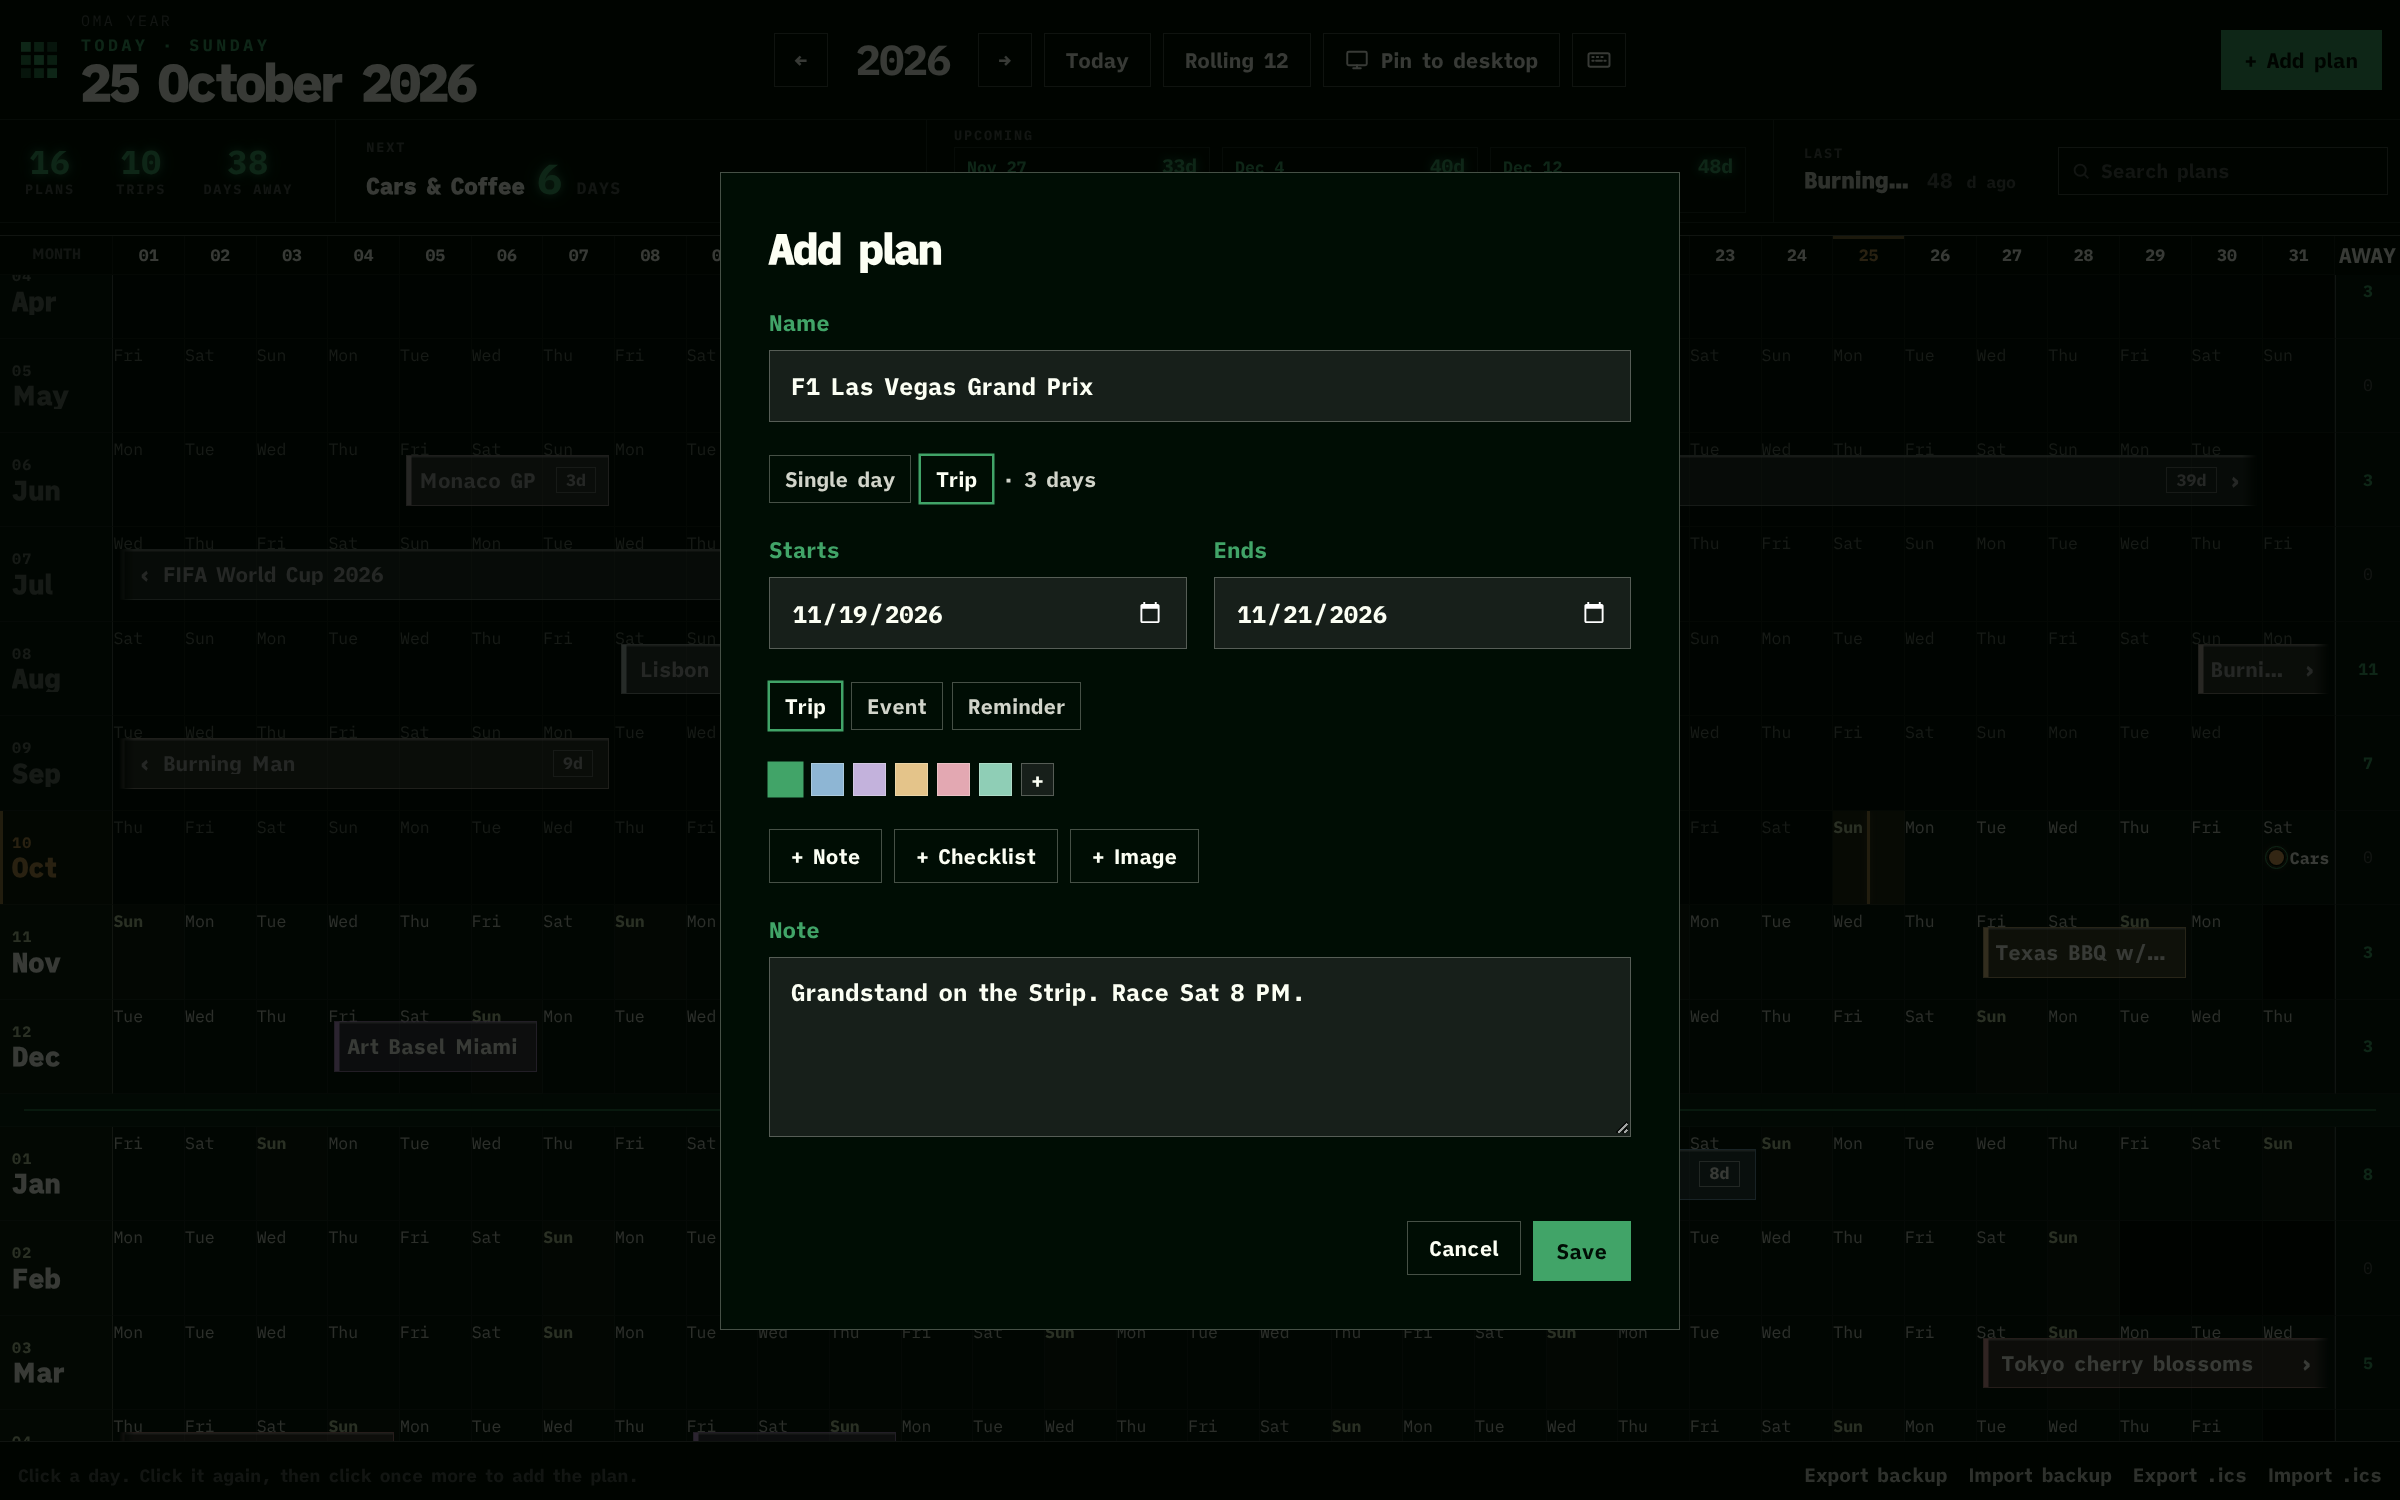
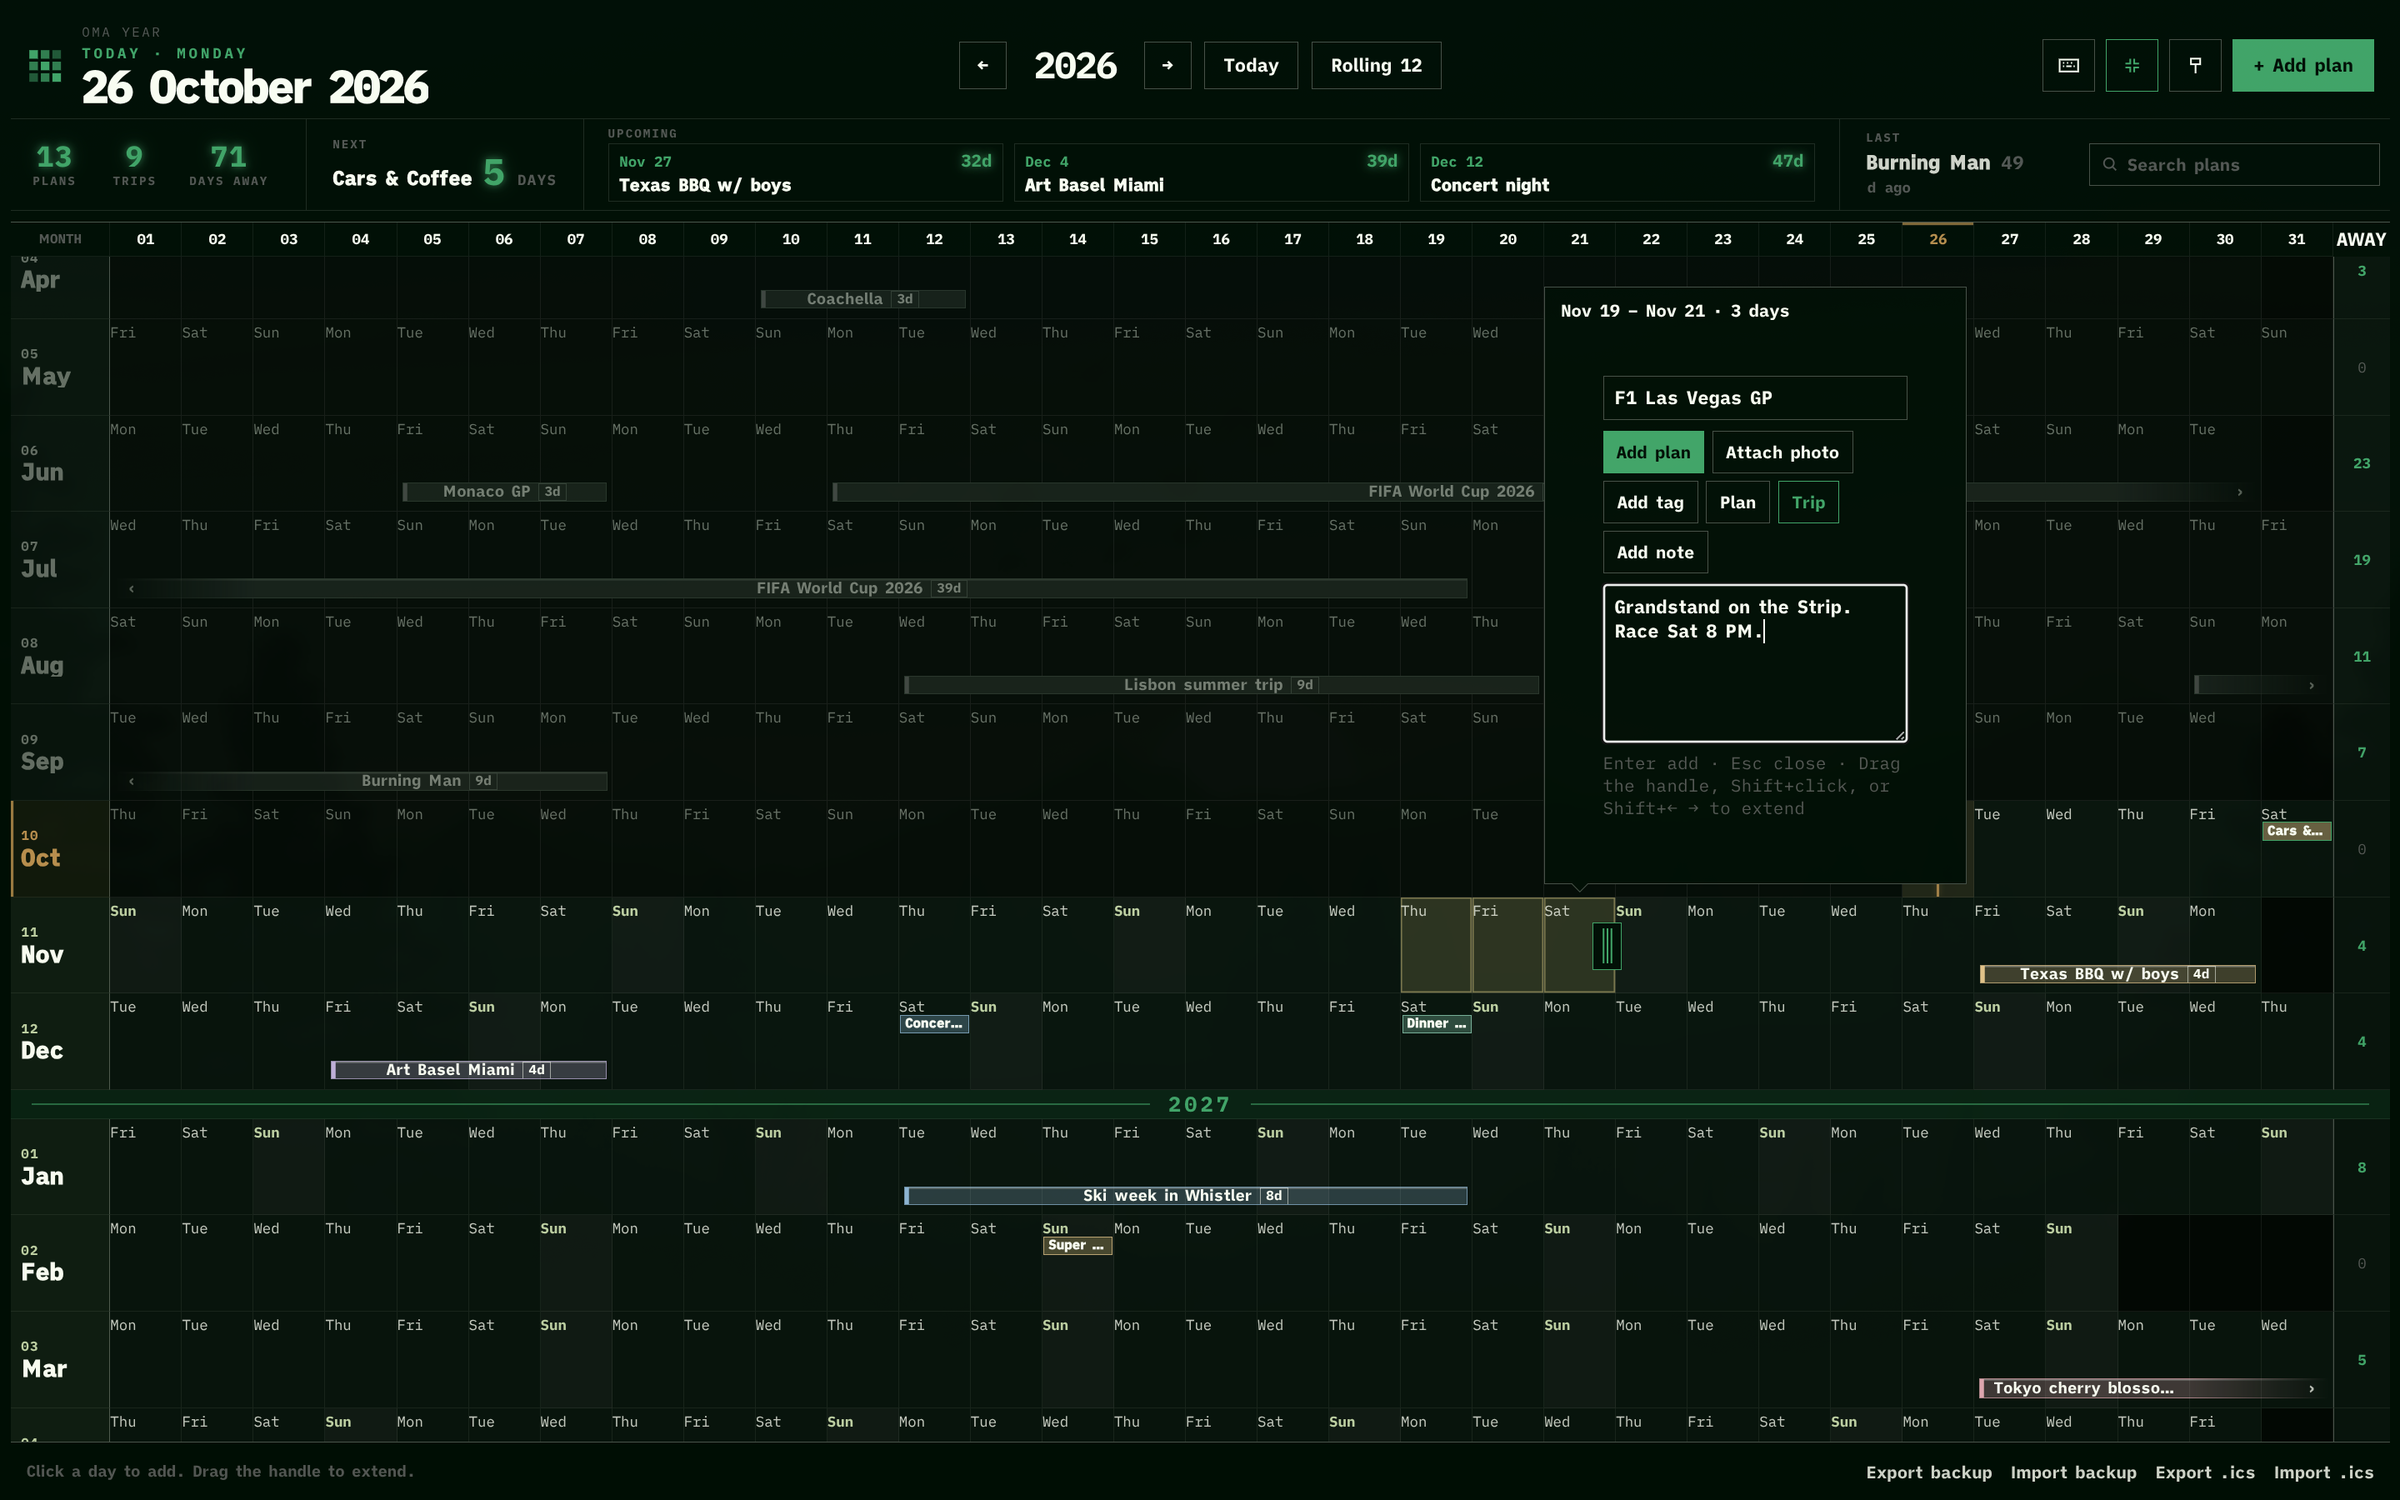
Replace the demo screenshots with the current board. (#3)
The gallery and marketplace preview now show the full board, the floating window, quick add, and a plan with a photo.

diff --git a/README.md b/README.md
@@ -5,14 +5,15 @@
 <p align="center"><b>Your whole year on one screen. A local-first year calendar for Omarchy, with no backend, no account and no build step.</b></p>
 
 <p align="center">
-  <img src="preview.png" alt="Oma Year Planner showing a full year of trips and events" width="960">
+  <img src="preview.png" alt="Full year board of demo trips and events, with past months dimmed and thin bars wrapping between months" width="960">
 </p>
 
 ## Features
 
 - **Whole year at a glance.** Months run down one scrolling board. The day header stays pinned while the months scroll. "Rolling 12" starts at the current month, and **Today** brings the current month back to the middle.
 - **Past fades back.** Past months and finished plans dim, so what is ahead stands out.
-- **Fast planning.** Click a day to add a plan. Drag the handle to extend the range. Drag a bar to move a plan, or drag its ends to resize it.
+- **Fast planning.** Click a day to open quick add, name the plan, attach a photo, and pick Plan or Trip. Drag the handle to extend the range. Drag a bar to move a plan, or drag its ends to resize it.
+- **Thin month-wrap bars.** A plan that crosses a month stays one thin strip. It fades out at the end of the row and fades back in on the next, and the name stays on the longer piece.
 - **Trips, events and reminders.** One-day plans show as small markers. Trips add up to a "days away" count per month and for the year.
 - **Dashboard strip.** Counts for plans, trips and days away, then Next, Up next and Last. A wide window shows three Upcoming plans. A narrow window keeps Next, Up next and Last on one line.
 - **Time and place.** A plan can be all day or have a start and end time, plus an optional place. The place opens in Maps only when you click it. Times and places go along with calendar files and Google Calendar.
@@ -32,11 +33,8 @@ All plans in these shots are demo data.
 
 | | |
 |---|---|
-| <img src="screenshots/fullscreen.png" alt="Full-screen board with Next and three Upcoming plans" width="460"><br>**Full screen.** A wide window shows Next plus three Upcoming plans. | <img src="screenshots/window.png" alt="Normal window with Next, Up next and Last" width="460"><br>**Normal window.** A narrower window keeps Next, Up next and Last on one line. |
-| <img src="screenshots/add-plan.png" alt="Add plan dialog filling in F1 Las Vegas Grand Prix" width="460"><br>**Add a plan.** Drag across days or press `N`, then name it, pick the type and color, and add a note. | <img src="screenshots/plan-detail.png" alt="A plan opened on the board with its note and photo" width="460"><br>**Open a plan.** Click a plan to see its note and photos right on the board. |
-| <img src="screenshots/plan-edit.png" alt="Edit plan dialog with a note, checklist and photo" width="460"><br>**Notes, checklists and photos.** Up to four images per plan. | |
-
-Barbecue photo: ["Barbecue plate at Black's Barbecue"](https://commons.wikimedia.org/wiki/File:Barbecue_plate_at_Black%27s_Barbecue.jpg) by T.Tseng, [CC BY 2.0](https://creativecommons.org/licenses/by/2.0/), via Wikimedia Commons.
+| <img src="screenshots/hero.png" alt="Full year board of demo plans, with the day header pinned and thin bars wrapping between months" width="460"><br>**Full board.** The year on one screen. Past months fade, Upcoming and Last stay on the strip, and thin bars wrap from one month into the next. | <img src="screenshots/window.png" alt="Planner floating on the desktop, with Next and Up next on one line" width="460"><br>**Floating window.** A narrower window keeps Next, Up next and Last on one line, and search is an icon. |
+| <img src="screenshots/add-plan.png" alt="Quick add popover for F1 Las Vegas GP, with Attach photo and a note" width="460"><br>**Quick add.** Click a day, name the plan, attach a photo, pick Plan or Trip, and add a note. Enter adds it. | <img src="screenshots/plan-photo.png" alt="F1 Las Vegas GP opened on the board with its note and a photo of a Formula One car" width="460"><br>**A plan with a photo.** Click a plan to see its dates, note and photo on the board. |
 
 ## Privacy
 
@@ -55,7 +53,7 @@ Everything stays on your machine.
 omarchy plugin add https://github.com/KarPage/oma-year-planner --enable
 ```
 
-This adds a calendar button to your bar. Left-click opens a small menu: open the planner in its own app window (themed with your current Omarchy colors), pin or unpin the board on the wallpaper, toggle full screen, refresh the pinned picture, or quit. In the menu, `O`, `W`, `F`, `R` and `Q` do the same, and `Esc` closes it. Right-click pins or unpins straight away. A small dot on the button shows while the board is pinned. If the button doesn't show up, add **Oma Year Planner** to the bar from the bar settings.
+This adds a calendar button to your bar. Left-click opens a small menu: open the planner in its own app window (themed with your current Omarchy colors), pin or unpin the board on the wallpaper, toggle full screen, refresh the pinned picture, choose Left, Center, or Right for the bar position, or quit. In the menu, `O`, `W`, `F`, `R`, `1`, `2`, `3` and `Q` do the same, and `Esc` closes it. Right-click pins or unpins straight away. A small dot on the button shows while the board is pinned. If the button doesn't show up, add **Oma Year Planner** to the bar from the bar settings.
 
 You need Chromium (it ships with Omarchy), Python 3 for the theme sync and the pin helper, `curl`, and ImageMagick (`magick`) for wallpaper mode.
 
@@ -104,7 +102,7 @@ A still picture of the board, laid over the desktop. Nothing on it clicks or mov
 
 Right-click the bar button to toggle it. While it is pinned, the picture is painted again at midnight, and again when the planner window closes.
 
-In the planner, the **Pin to desktop** button and the `W` key do the same thing.
+In the planner, the pin icon asks before it pins or unpins. The `W` key does it straight away.
 
 Optional Hyprland shortcut, so you can unpin when the planner is closed. This is a step you add yourself; the plugin does not change your Hyprland config. Add it to `~/.config/hypr/yearplanner.lua` (or wherever you keep binds), with the path to this plugin's `year-planner/wallpaper`. When installed as a plugin, that is `~/.config/omarchy/plugins/io.github.karpage.oma-year/year-planner/wallpaper`:
 

diff --git a/year-planner/README.md b/year-planner/README.md
@@ -4,14 +4,14 @@ A scrolling year board for plans and trips. It is one HTML page, a stylesheet, a
 
 Your data stays on your device. Plans are saved in this browser under `year-planner/v1`. Images are saved in IndexedDB, not in that plan list. Nothing is sent to a server unless you connect Google Calendar, which is optional and off by default.
 
-Screenshots for a release live in [screenshots/](screenshots/). The wide shot shows the pinned day header, the Upcoming cells, and full-color plans ahead of today. The narrow shot shows Next, Up next, and Last on one line, with the search field collapsed to an icon.
+Screenshots for a release live in [screenshots/](../screenshots/). The hero is the full board, with the pinned day header and thin bars that wrap from one month into the next. The window shot is the planner floating on the desktop, with Next and Up next on one line and search as an icon. Quick add is the popover, including a photo. The plan shot shows a note and a photo.
 
 ## Features
 
 - Months run in one scrolling board. The day numbers stay pinned. A year label sits between December and January. The board starts on the previous year through two years ahead, and keeps 2025 through 2028 while that window still overlaps them. The year arrows stop at either end.
 - Rolling 12 starts at the current month. The year arrows jump to January.
-- Click a day to add a plan. A handle on that day extends the range, and so do Shift+click and Shift+arrow. Drag a bar to move a plan, or drag its own ends to resize it. A small drag is ignored so a click does not move a plan.
-- A plan that runs past the end of a month fades out over about two days and fades back in on the next row. The name stays on the longer piece.
+- Click a day to open quick add. It can attach a photo, a tag, a trip or plan type, and a note. A handle on that day extends the range, and so do Shift+click and Shift+arrow. Drag a bar to move a plan, or drag its own ends to resize it. A small drag is ignored so a click does not move a plan.
+- A thin bar that runs past the end of a month fades out over about two days and fades back in on the next row. The name stays on the longer piece.
 - A plan is a Trip, an Event, or a Reminder. Older plans with no type are treated as a trip when they cover more than one day, and as an event when they cover one day.
 - Days away counts trips only. That number is on the dashboard, at the end of each month, and in the Away popover.
 - One-day plans are chips in the day cell. Two stack in the day. More than that shows a +N chip that lists them. Click one to edit the name, color, or type. A checklist can show progress on a longer bar, such as `Canada · 8d · 3/7`.

diff --git a/AGENTS.md b/AGENTS.md
@@ -44,7 +44,7 @@ The page and the board set `overflow-x: hidden`, and `.calendar` uses `overflow-
 
 The app is local-first. Plans and notes are stored in `localStorage` under `year-planner/v1`. Images are stored in IndexedDB. Do not add network requests other than the optional read-only Google Calendar. That client is `gcal.js`: scope `calendar.readonly`, the sign-in script loads only after Connect, and the button stays hidden while `GOOGLE_CLIENT_ID` in `config.js` is `""`. The access token stays in memory. Synced state is `year-planner/gcal`, separate from the plan list.
 
-Screenshots and test data must be demo data only. The root README says the plans in `screenshots/` are demo data, and it credits the barbecue photo as a real Wikimedia Commons image (T.Tseng, CC BY 2.0). Do not put real personal plans in screenshots, fixtures, or tests. Do not add AI-generated photos. A new image has to be a real photograph or illustration, under a free license, with credit in the README.
+Screenshots and test data must be demo data only. The root README says the plans in `screenshots/` are demo data. Do not put real personal plans in screenshots, fixtures, or tests. Do not add AI-generated photos. A new image has to be a real photograph or illustration, under a free license, with credit in the README.
 
 ## Repository
 

diff --git a/year-planner/screenshots/README.md b/year-planner/screenshots/README.md
@@ -1,6 +1,8 @@
 # Screenshots
 
-Drop release screenshots in this folder. The main README links here so the pictures stay out of the page itself.
+Release screenshots live in the repository root, in [screenshots/](../../screenshots/). The root README shows them. This folder does not hold the image files.
 
-- `wide.png` is the full-screen board: pinned day numbers, Upcoming as three cells, Last as a small muted cell, and past plans dimmed.
-- `narrow.png` is a window: Next and Up next stay on one row, Last is one muted line, and search is an icon.
+- `hero.png` is the full board: pinned day numbers, Upcoming and Last, past months dimmed, and thin bars that wrap from one month into the next. `preview.png` at the repository root is that same shot, for the marketplace.
+- `window.png` is the planner in a floating window: Next and Up next on one row, Last as one muted line, and search as an icon.
+- `add-plan.png` is the quick add popover, including Attach photo.
+- `plan-photo.png` is a plan opened on the board, with its note and a photo.
